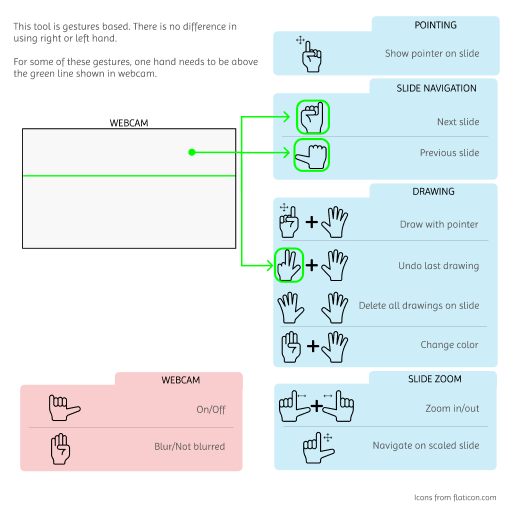
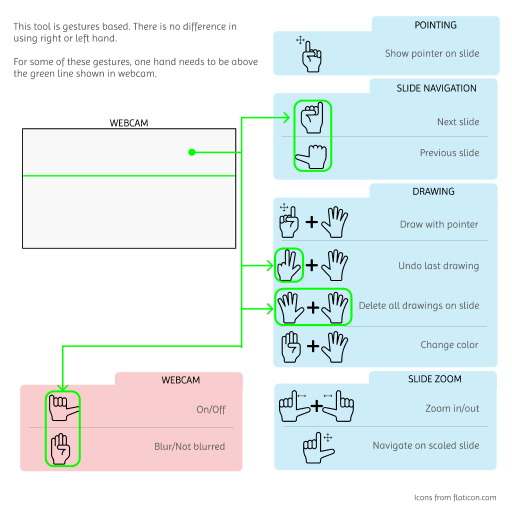
Fix minori

diff --git a/presentationControllerV2.py b/presentationControllerV2.py
@@ -207,30 +207,6 @@ def main():
             # GESTURE A UNA MANO
 
             if rightHand:
-                if len(hands) == 1:
-                    # Gesture attivazione camera
-                    if fingersR == [1, 0, 0, 0, 1]:
-                        print("disattivo camera", camera)
-                        if camera and auxControlCamera:
-                            camera = False
-                            auxControlCamera = False
-                        elif camera == False and auxControlCamera:
-                            camera = True
-                            auxControlCamera = False
-                    else:
-                        auxControlCamera = True
-
-                    # Gesture attivazione blur
-                    if fingersR == [0, 1, 1, 1, 1]:
-                        if blur and auxControlBLur:
-                            blur = False
-                            auxControlBLur = False
-                        elif blur == False and auxControlBLur:
-                            blur = True
-                            auxControlBLur = False
-                    else:
-                        auxControlBLur = True
-
 
                 if cyR <= gestureThreshold:
                     annotationStart = False
@@ -269,32 +245,27 @@ def main():
                                 annotations = [[]]
                                 colorArray = [[]]
                                 annotationCounter = 0
-            if leftHand:
-                if len(hands) == 1:
+
                     # Gesture attivazione camera
-                    if fingersL == [1, 0, 0, 0, 1]:
+                    if fingersR == [1, 0, 0, 0, 1]:
                         print("disattivo camera", camera)
-                        if camera and auxControlCamera:
+                        if camera:
                             camera = False
-                            auxControlCamera = False
-                        elif camera == False and auxControlCamera:
+                            buttonPressed = True
+                        elif camera == False:
                             camera = True
-                            auxControlCamera = False
-                    else:
-                        auxControlCamera = True
+                            buttonPressed = True
 
                     # Gesture attivazione blur
                     if camera:
-                        if fingersL == [0, 1, 1, 1, 1]:
-                            if blur and auxControlBLur:
+                        if fingersR == [0, 1, 1, 1, 1]:
+                            if blur:
                                 blur = False
-                                auxControlBLur = False
-                            elif blur == False and auxControlBLur:
+                                buttonPressed = True
+                            elif blur == False:
                                 blur = True
-                                auxControlBLur = False
-                        else:
-                            auxControlBLur = True
-
+                                buttonPressed = True
+            if leftHand:
                 if cyL <= gestureThreshold:
                     annotationStart = False
 
@@ -325,6 +296,26 @@ def main():
                             annotations = [[]]
                             colorArray = [[]]
                             annotationCounter = 0
+
+                    # Gesture attivazione camera
+                    if fingersL == [1, 0, 0, 0, 1]:
+                        print("disattivo camera", camera)
+                        if camera:
+                            camera = False
+                            buttonPressed = True
+                        elif camera == False:
+                            camera = True
+                            buttonPressed = True
+
+                    # Gesture attivazione blur
+                    if camera:
+                        if fingersL == [0, 1, 1, 1, 1]:
+                            if blur:
+                                blur = False
+                                buttonPressed = True
+                            elif blur == False:
+                                blur = True
+                                buttonPressed = True
 
             # Gesture 3 - Puntatore (indice)
             if rightHand and fingersR == [0, 1, 0, 0, 0]:
@@ -468,7 +459,7 @@ def main():
                             buttonPressed = True
 
                 # Gesture 6 - Cancella tutti i disegni (entrmabi le amni aperte)
-                if fingersL == [1, 1, 1, 1, 1] and fingersR == [1, 1, 1, 1, 1]:
+                if fingersL == [1, 1, 1, 1, 1] and fingersR == [1, 1, 1, 1, 1] and cyR<=gestureThreshold and cyR<=gestureThreshold:
                     if annotations:
                         if annotationCounter > 0:
                             annotations = [[]]
@@ -644,9 +635,9 @@ def main():
 
         backgroundImg = cv2.imread("image/background.jpg")
         checkedIcon = cv2.imread("image/checked.png")
-        checkedIcon = cv2.resize(checkedIcon, (25, 25))
+        #checkedIcon = cv2.resize(checkedIcon, (25, 25))
         uncheckedIcon = cv2.imread("image/unchecked.png")
-        uncheckedIcon = cv2.resize(uncheckedIcon, (25, 25))
+        #uncheckedIcon = cv2.resize(uncheckedIcon, (25, 25))
 
 
         #inserisco la cam in alto a destra
